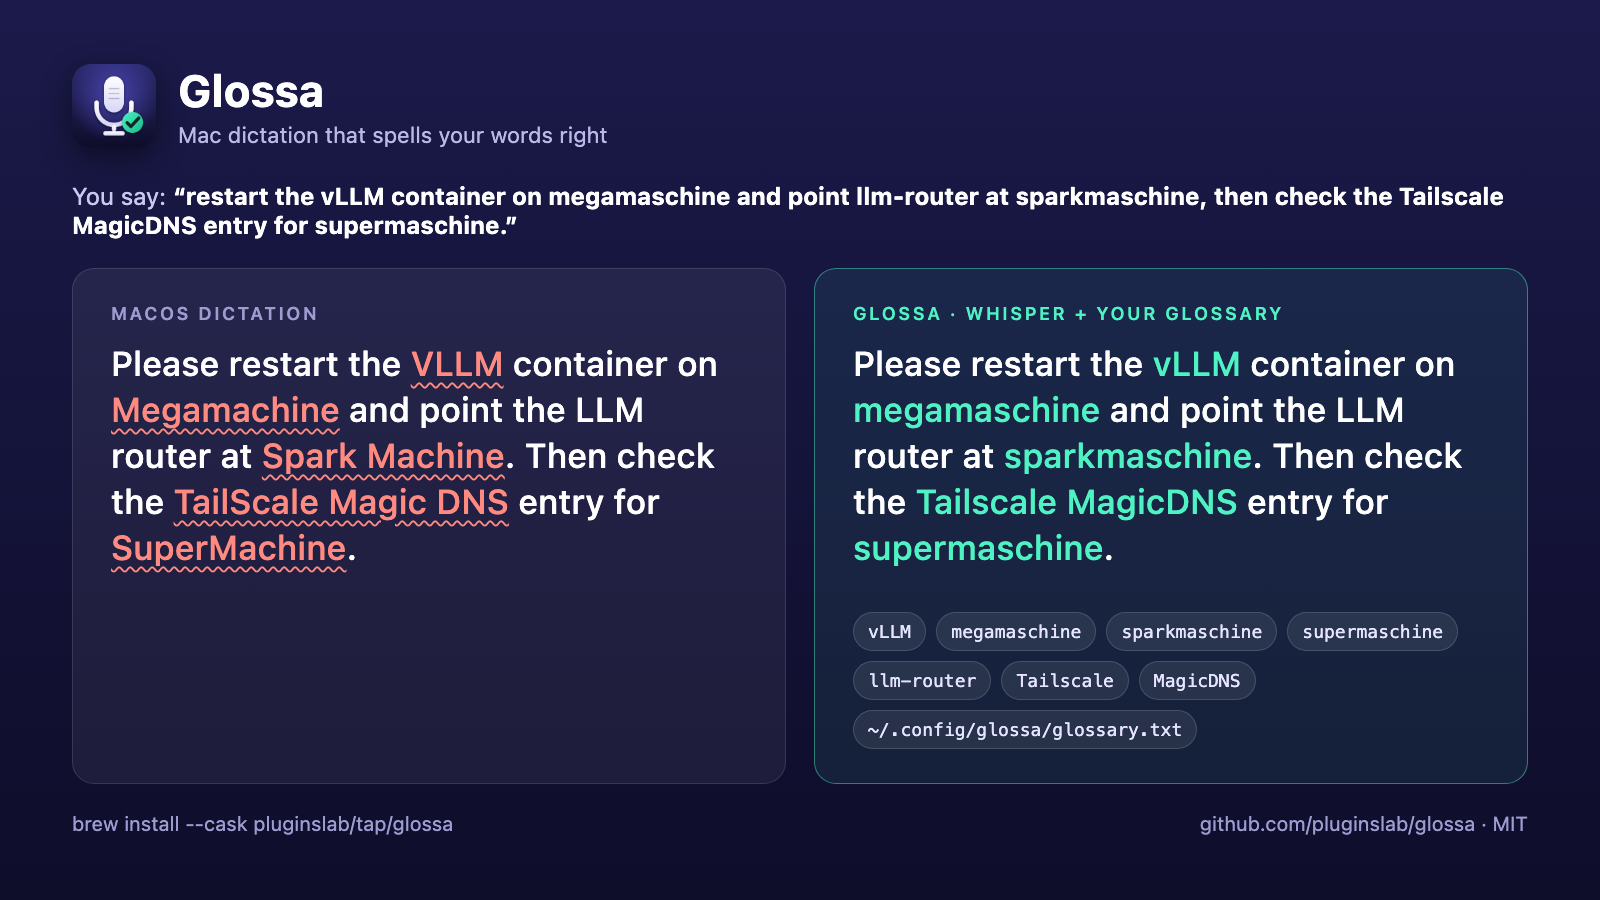
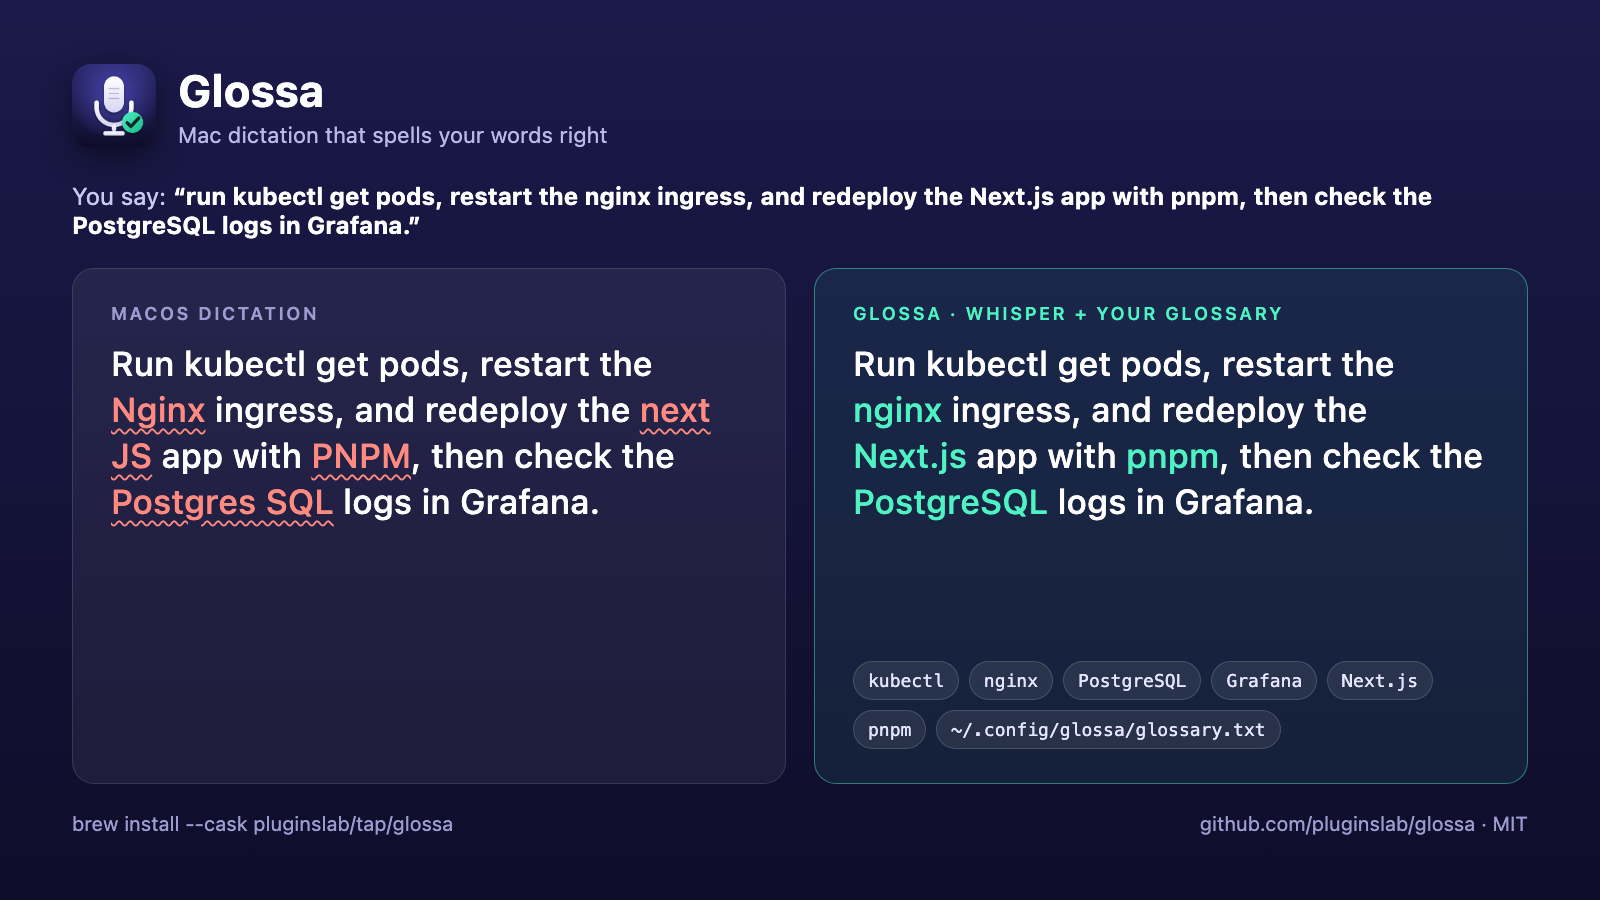
docs: generic example sentence (kubectl, nginx, Next.js, pnpm, PostgreSQL) in README, release notes and hero

diff --git a/README.md b/README.md
@@ -14,9 +14,9 @@
 
 </div>
 
-You press the dictation key, say "restart the vLLM container on megamaschine and check
-the Tailscale MagicDNS entry", and macOS types *"restart the VLLM container on Megamachine
-and check the TailScale Magic DNS entry"*. Every time. There is no way to teach Apple's
+You press the dictation key, say "redeploy the Next.js app with pnpm and check the
+PostgreSQL logs in Grafana", and macOS types *"redeploy the next JS app with PNPM and check
+the Postgres SQL logs in Grafana"*. Every time. There is no way to teach Apple's
 dictation a word.
 
 Whisper can be taught. It takes a short **prompt** before the audio, and anything in that
@@ -26,8 +26,8 @@ and punctuates what follows. Glossa builds that prompt on every dictation: your
 Accessibility from whatever app you are in. Then it sends the audio to a Whisper server,
 local by default, and types the answer where you were.
 
-Same sentence, same model, with Glossa's prompt: *"restart the vLLM container on
-megamaschine and check the Tailscale MagicDNS entry"*.
+Same sentence, same model, with Glossa's prompt: *"redeploy the Next.js app with pnpm
+and check the PostgreSQL logs in Grafana"*.
 
 It lives in the menu bar, and it takes over the **microphone key** (F5 on Apple keyboards),
 so nothing about how you dictate changes except the result.

diff --git a/docs/releases/0.1.0.md b/docs/releases/0.1.0.md
@@ -1,6 +1,6 @@
 Glossa replaces macOS Dictation with Whisper, and tells Whisper what you are about to say.
 
-Apple's dictation has no way to learn a word. Whisper does: a short prompt of vocabulary and preceding text, and `vLLM`, `megamaschine` or `Tailscale MagicDNS` come out exactly right instead of "VLLM", "Megamachine" and "TailScale Magic DNS". Glossa builds that prompt for you on every dictation, from a glossary file and the text before your cursor, and types the result wherever you are.
+Apple's dictation has no way to learn a word. Whisper does: a short prompt of vocabulary and preceding text, and `Next.js`, `pnpm` or `PostgreSQL` come out exactly right instead of "next JS", "PNPM" and "Postgres SQL". Glossa builds that prompt for you on every dictation, from a glossary file and the text before your cursor, and types the result wherever you are.
 
 **Highlights**
 - Press the microphone key to start and stop, or hold it to talk. Fn double-tap and Fn hold work too. Apple's dictation never sees the key.
